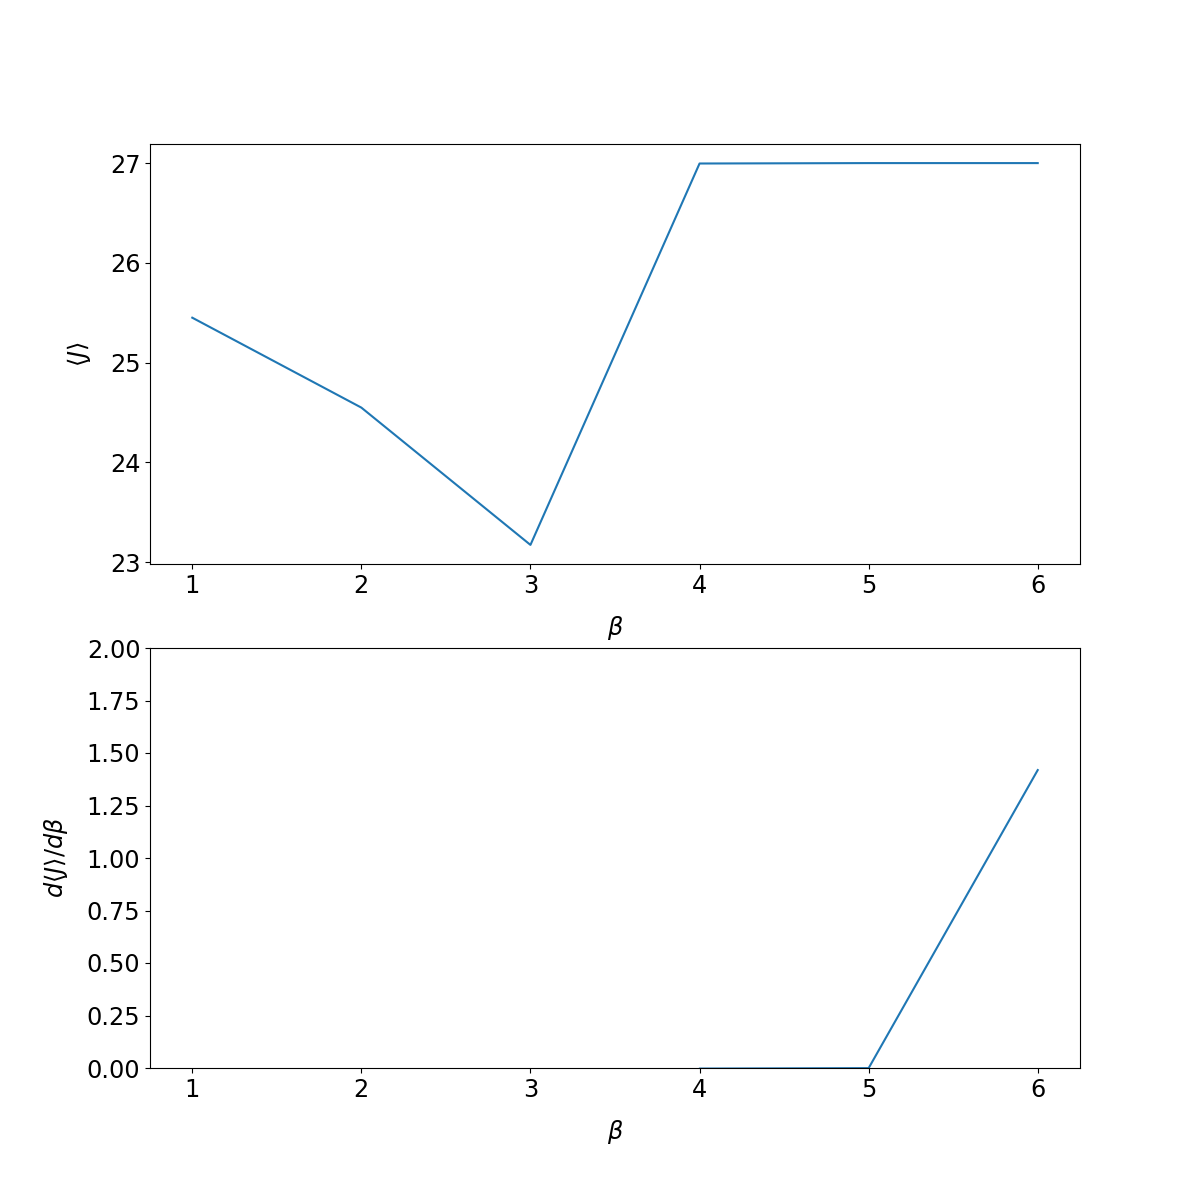
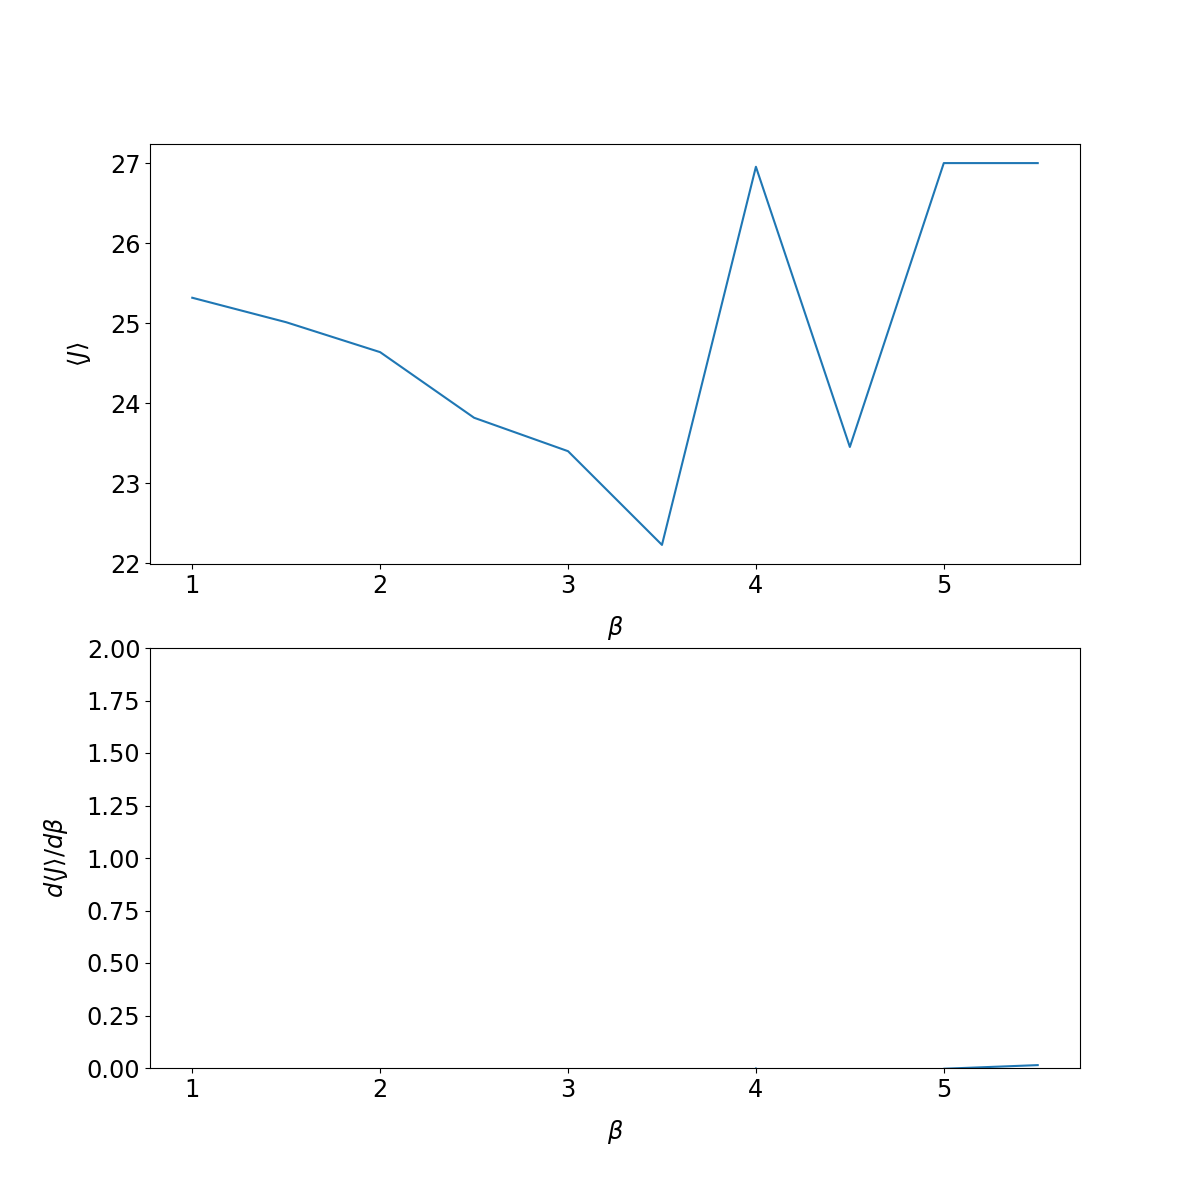
added step size option

diff --git a/app_lorenz.py b/app_lorenz.py
@@ -10,11 +10,12 @@ from nilss import *
 par = "beta"
 par_lb = 1
 par_ub = 6
+step_size = 0.5
 rho = 28
 sigma = 10
 beta = 8. / 3.
 vpar = 1.5
-par_arr = np.arange(par_lb, par_ub + 1)
+par_arr = np.arange(par_lb, par_ub, step_size)
 J_arr = np.zeros(par_arr.shape)
 dJdpar_arr = np.zeros(par_arr.shape)
 
